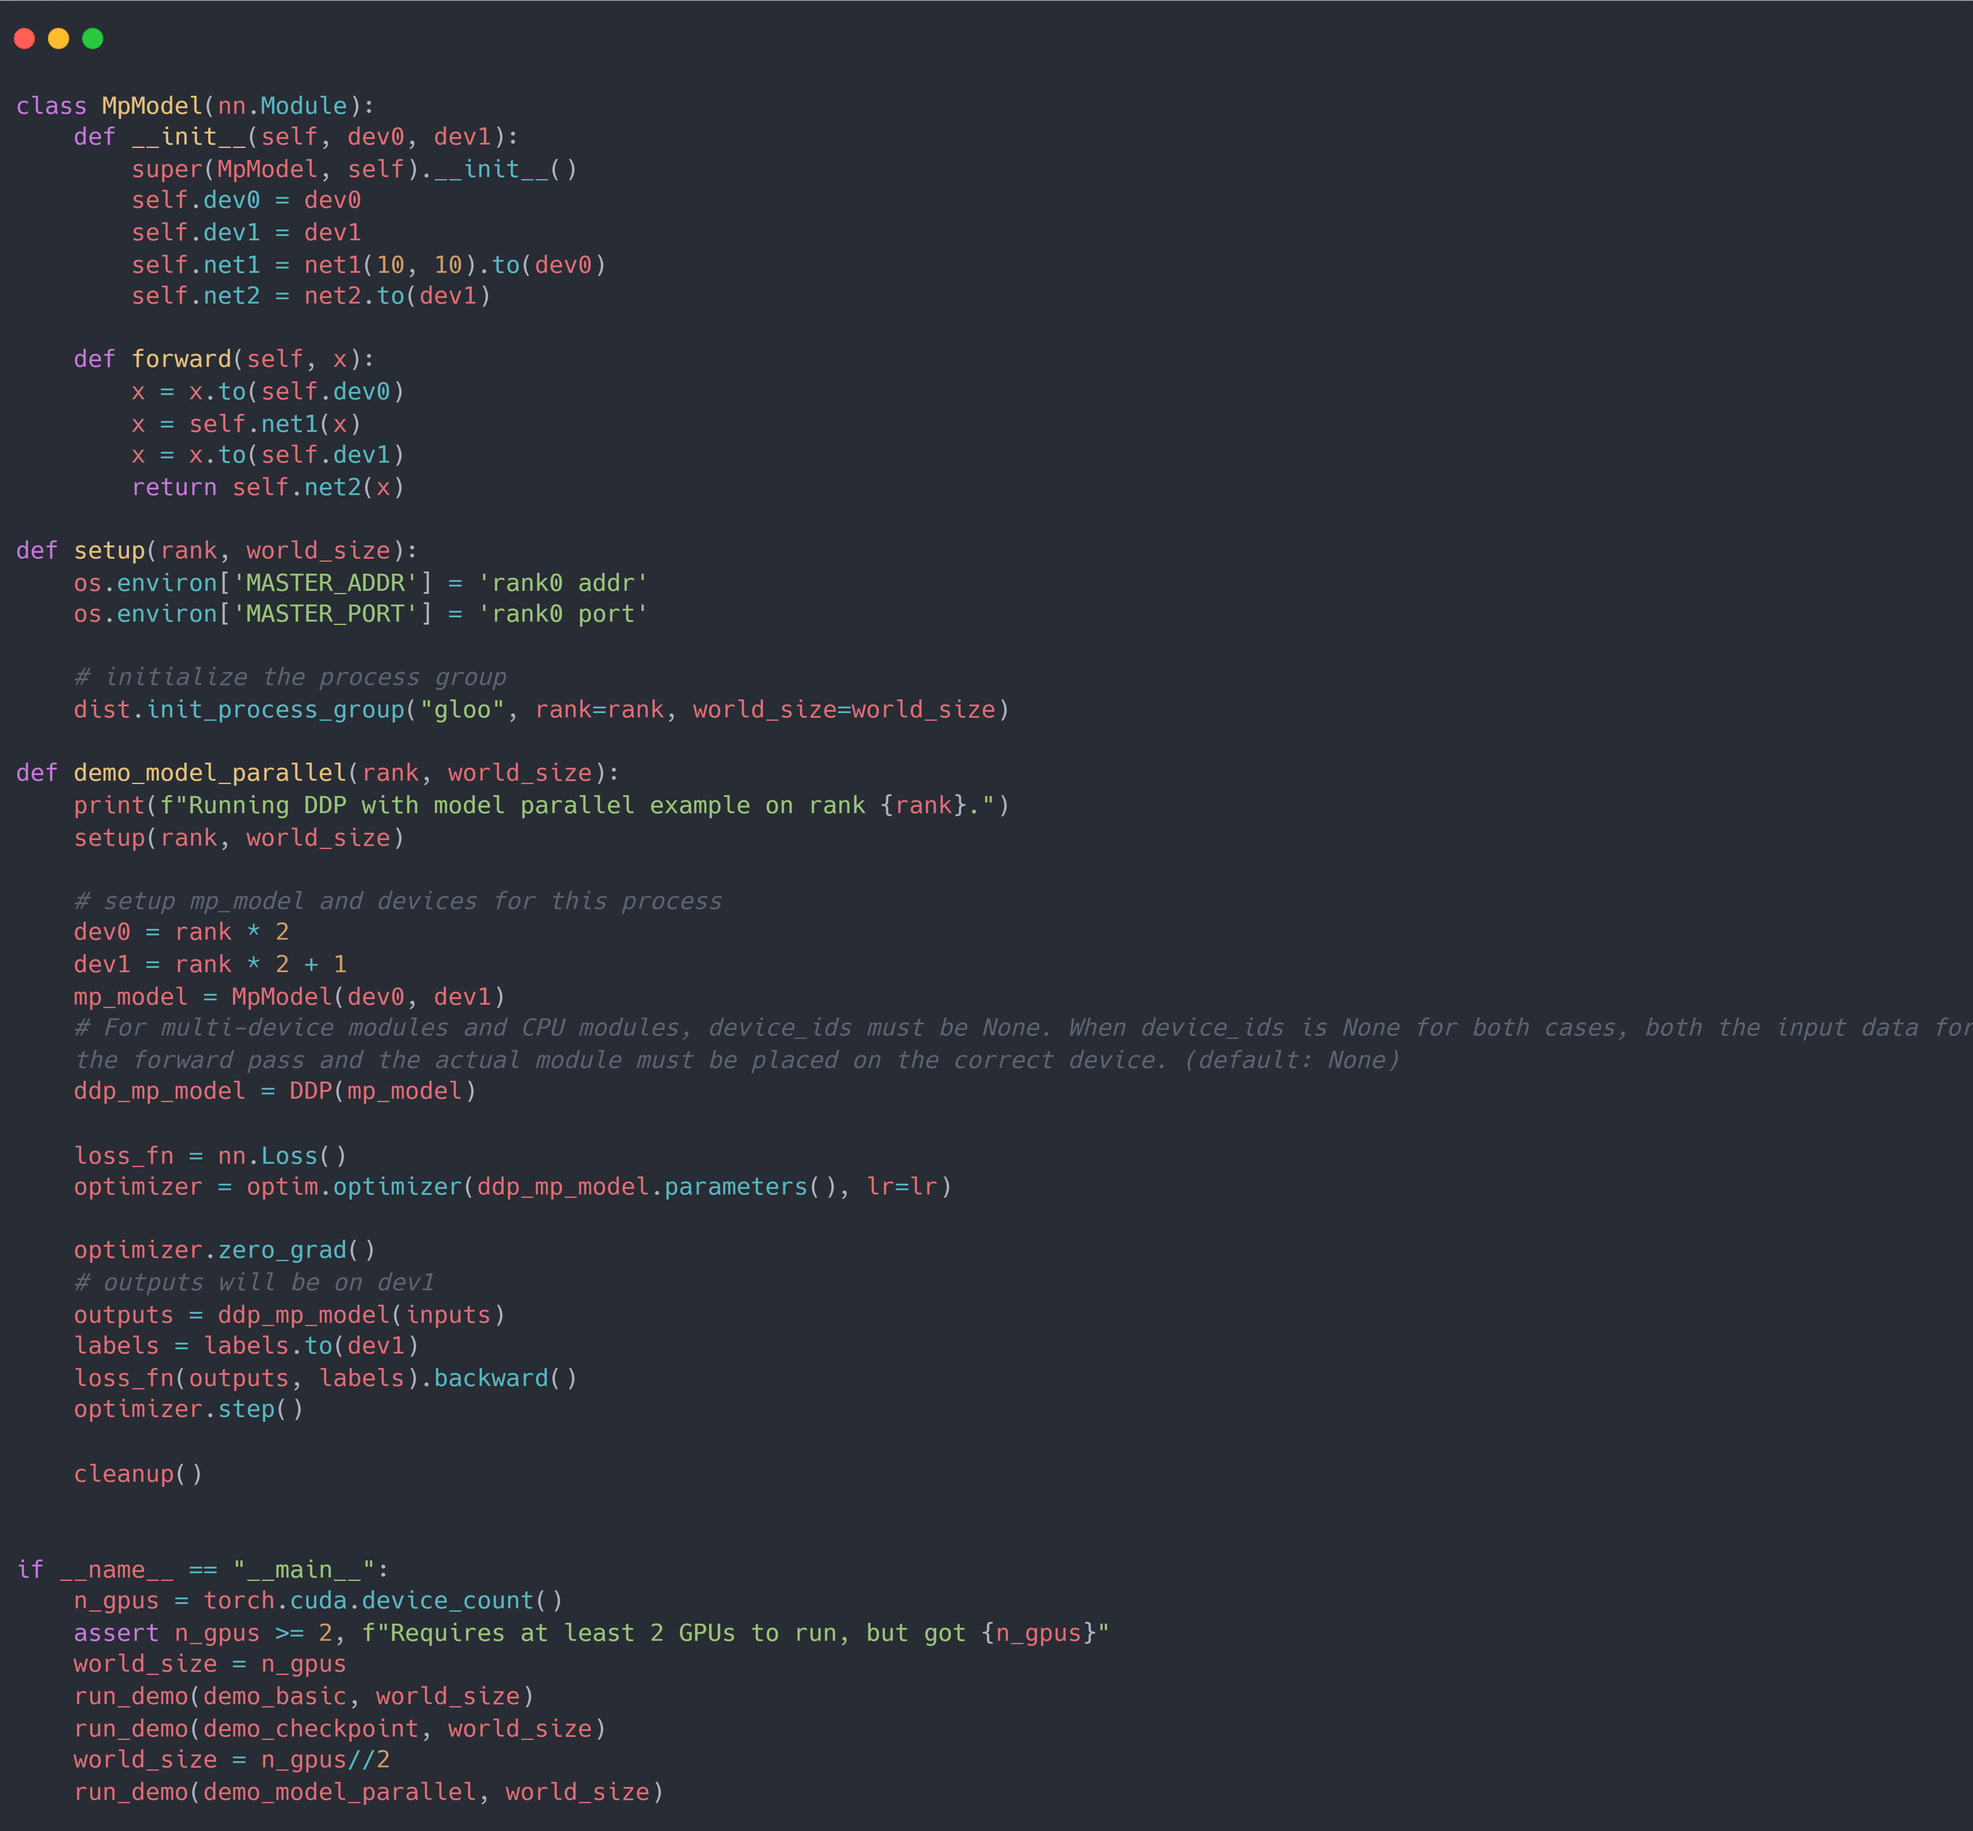
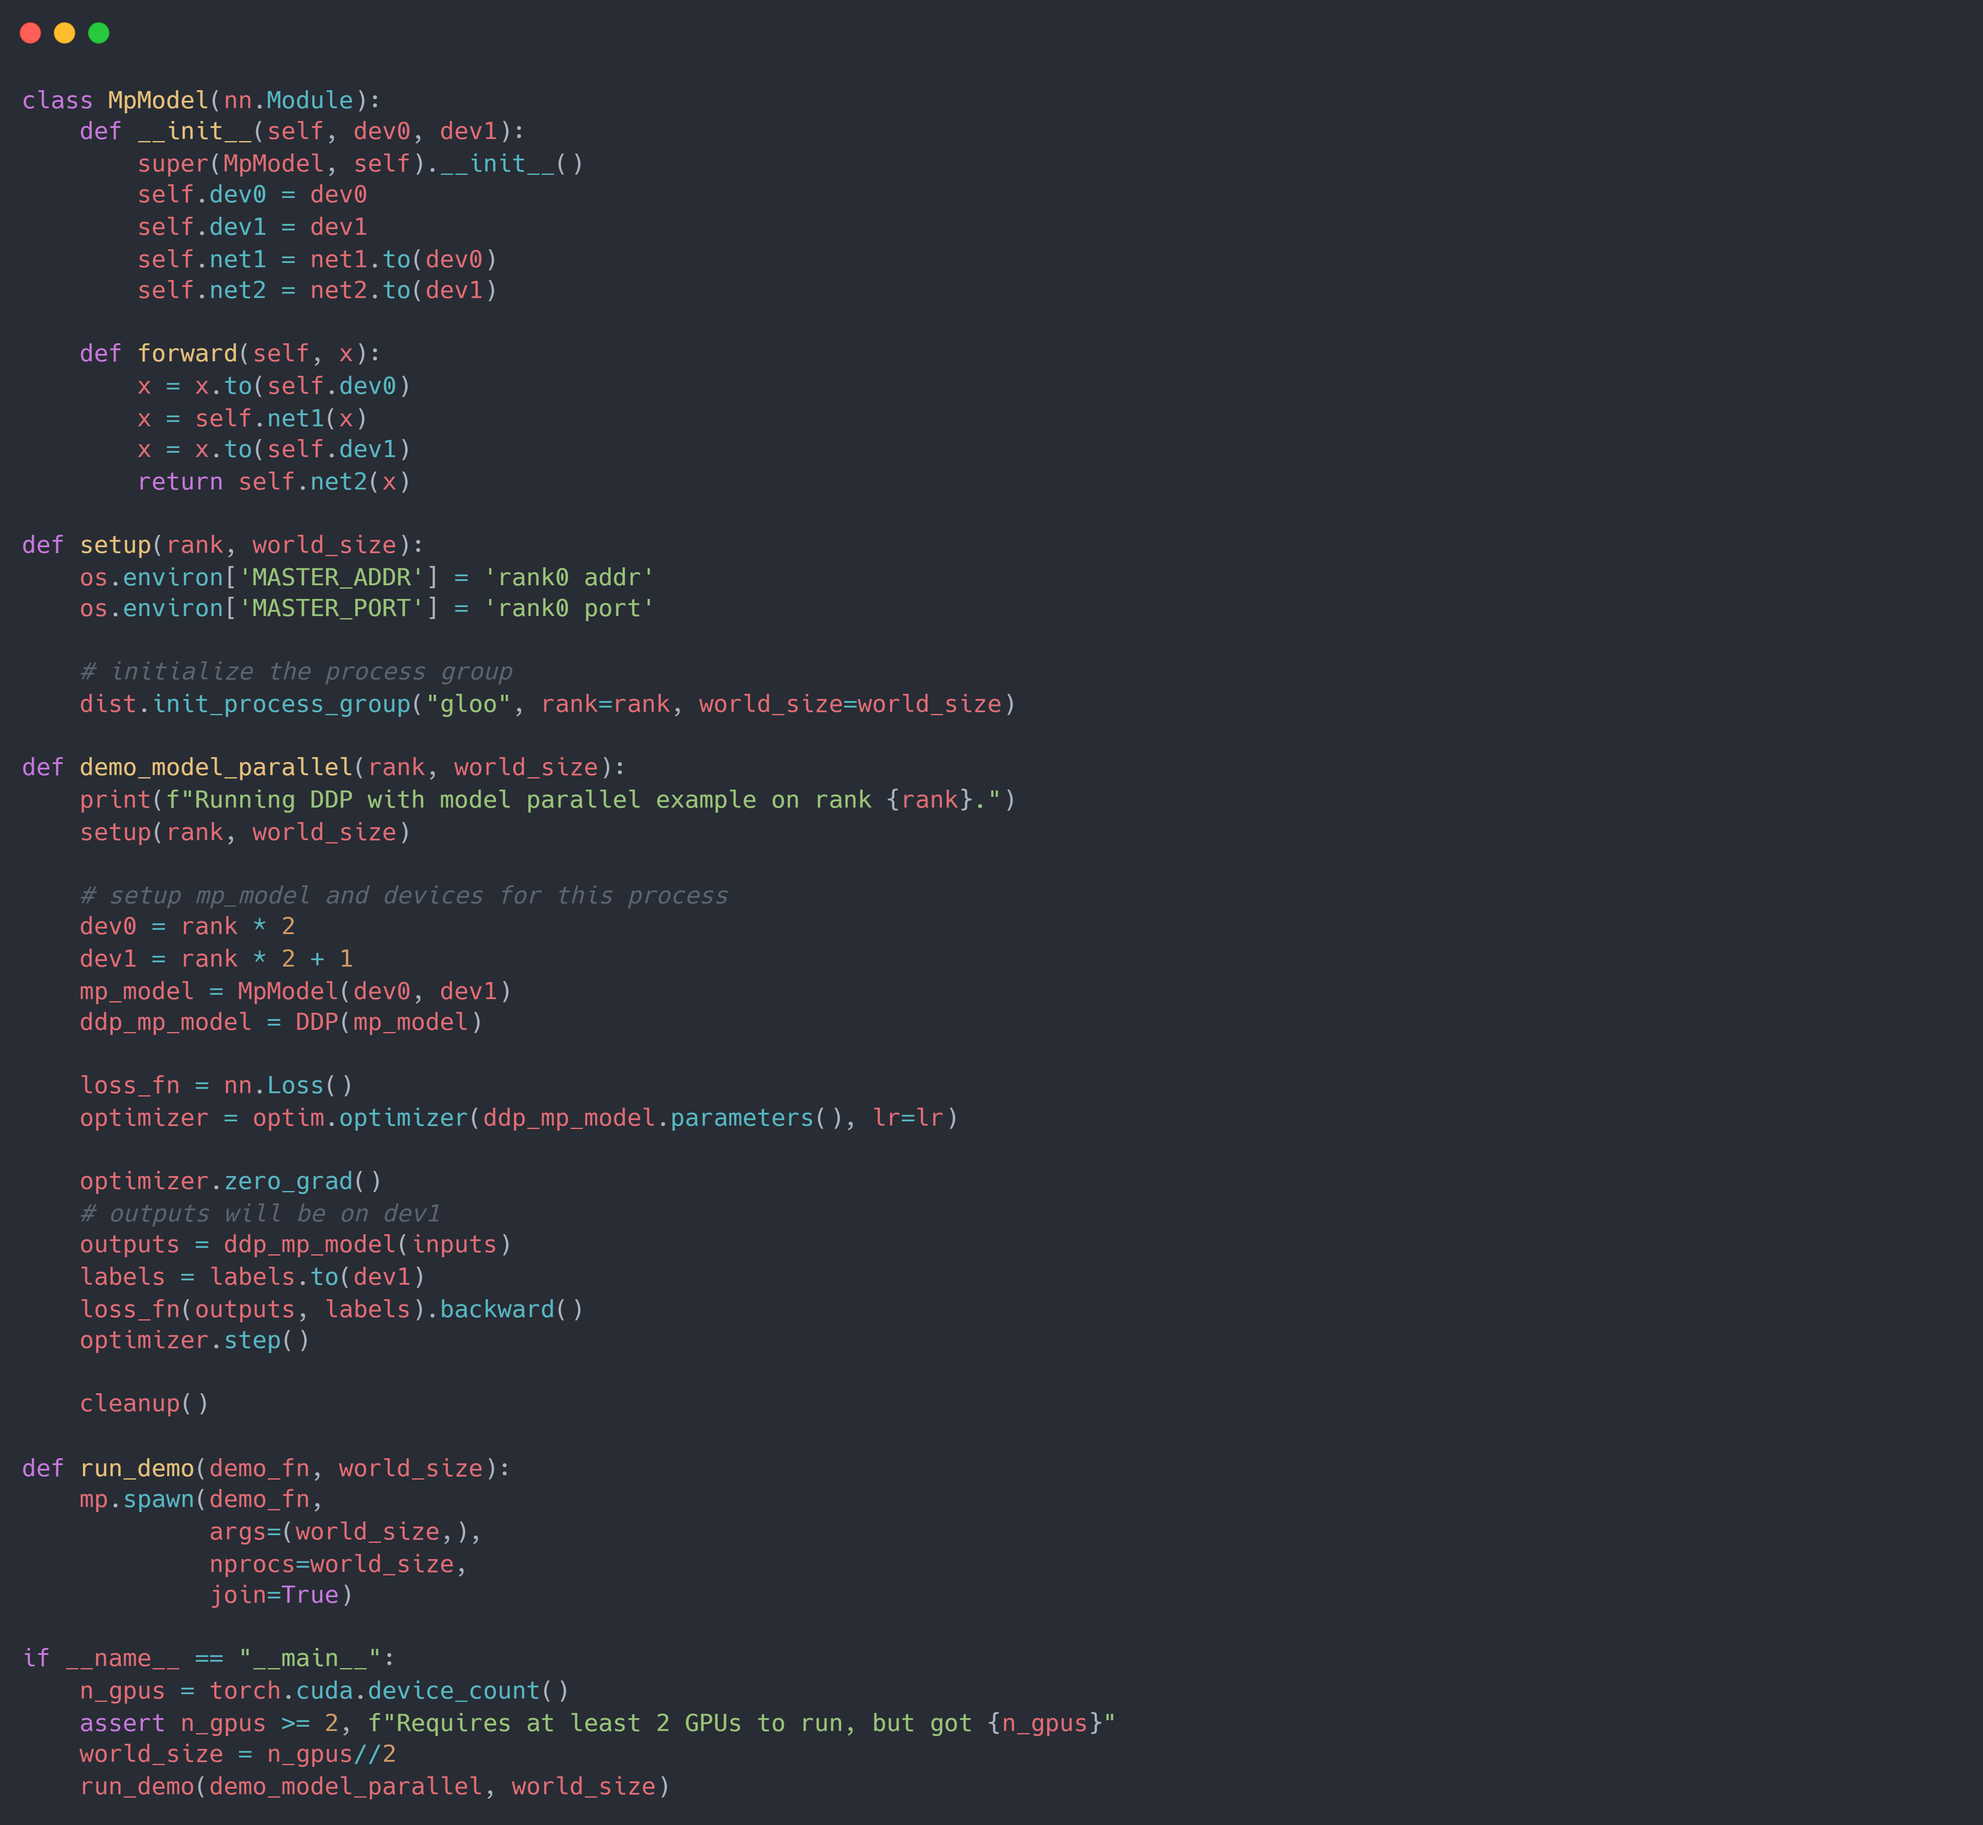
update pytorch DDP

diff --git a/_posts/2023-12-13-blog-code-pytorch-distributed.md b/_posts/2023-12-13-blog-code-pytorch-distributed.md
@@ -161,7 +161,7 @@ DataParallel Code Implementation
     
     3. <p style="text-align:justify; text-justify:inter-ideograph;">对于<b>环境变量(env)</b>的通信方式，其与 TCP 的通信方式相似，都是以<code style="color: #B58900">rank 0</code>作为通信主机，不过该方法是从环境变量中读取配置，从而允许完全自定义获取信息的方式。要设置的变量有:
 
-        <p style="text-align:justify; text-justify:inter-ideograph;">MASTER_PORT：<code style="color: #B58900">rank 0</code>的可用端口，默认 $29500$；</p>
+        <p style="text-align:justify; text-justify:inter-ideograph;">MASTER_PORT：<code style="color: #B58900">rank 0</code>的可用端口，默认 $29400$；</p>
         <p style="text-align:justify; text-justify:inter-ideograph;">MASTER_ADDR：<code style="color: #B58900">rank 0</code>的地址，默认 $localhost$；</p>
         <p style="text-align:justify; text-justify:inter-ideograph;">WORLD_SIZE：所有节点的进程的数量之和(也可在<code style="color: #B58900">init_process_group</code>中设置)；</p>
         <p style="text-align:justify; text-justify:inter-ideograph;">RANK：每个进程在全局进程中的位置(也可在<code style="color: #B58900">init_process_group</code>中设置)。</p>
@@ -195,9 +195,20 @@ DataParallel Code Implementation
 
 ![torch DDP save model](/images/torch_DDP_savemodel.png)
 
-<p style="text-align:justify; text-justify:inter-ideograph;">将 DDP 与 MP (Model Parallel) 结合起来，即可实现更加大型的模型训练：</p>
+<p style="text-align:justify; text-justify:inter-ideograph;">将 DDP 与 MP (Model Parallel) 结合起来，即可实现更加大型的模型训练。
+如下所示，假设 MP 的 GPU 数为 $2$，则<code style="color: #B58900">world_size</code>$=$所有 node 的 GPU 数 $/2$，
+然后使用<code style="color: #B58900">rank</code>来标记当前的 GPU 组数，即第 $rank$ 个进程的 MP 使用的 GPU 为 $[rank, rank+1$。
+需要注意的是，由于模型使用的是 MP，即 multi-device，因此<code style="color: #B58900">DDP</code>中的<code style="color: #B58900">device_ids</code>参数不能设置，只能使用默认值<code style="color: #B58900">None</code>；
+且模型的输入数据必须显式将其设置到指定的 device 上：<code style="color: #B58900">x=x.to(self.dev0)</code>。</p>
 
 ![torch DDP + MP](/images/torch_DDP_MP.png)
+
+Conclusion
+===
+
+<p style="text-align:justify; text-justify:inter-ideograph;">因此，一个 DDP + MP 的 PyTorch 实现框架如下：</p>
+
+![torch DDP + MP architecture](/images/torch_DDP_MP_architecture.png)
 
 Appendix
 ===
